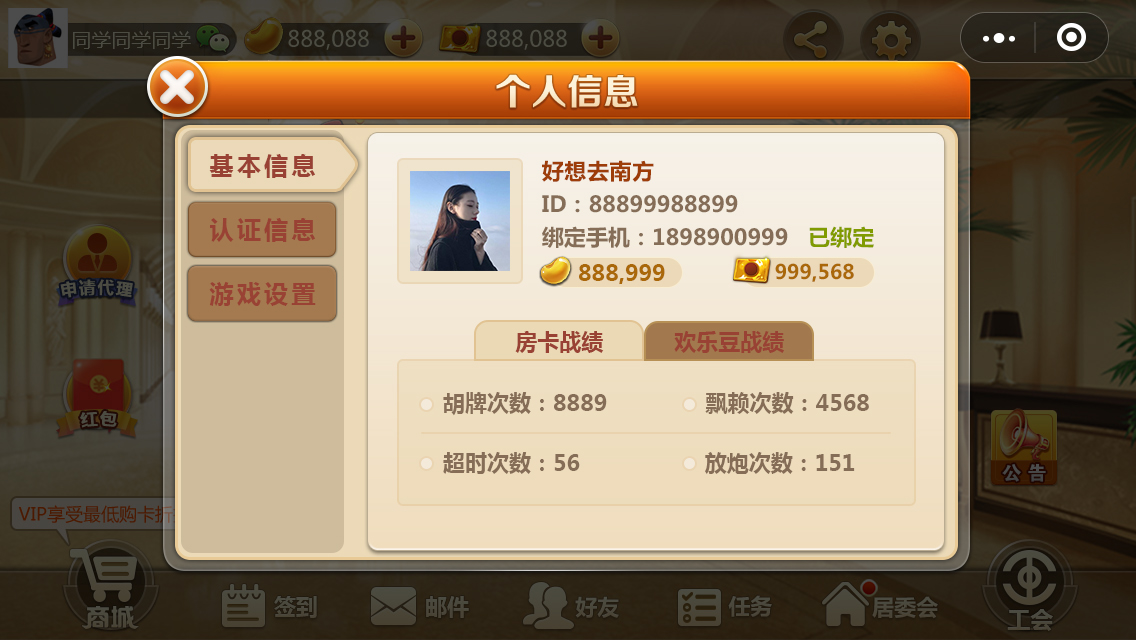
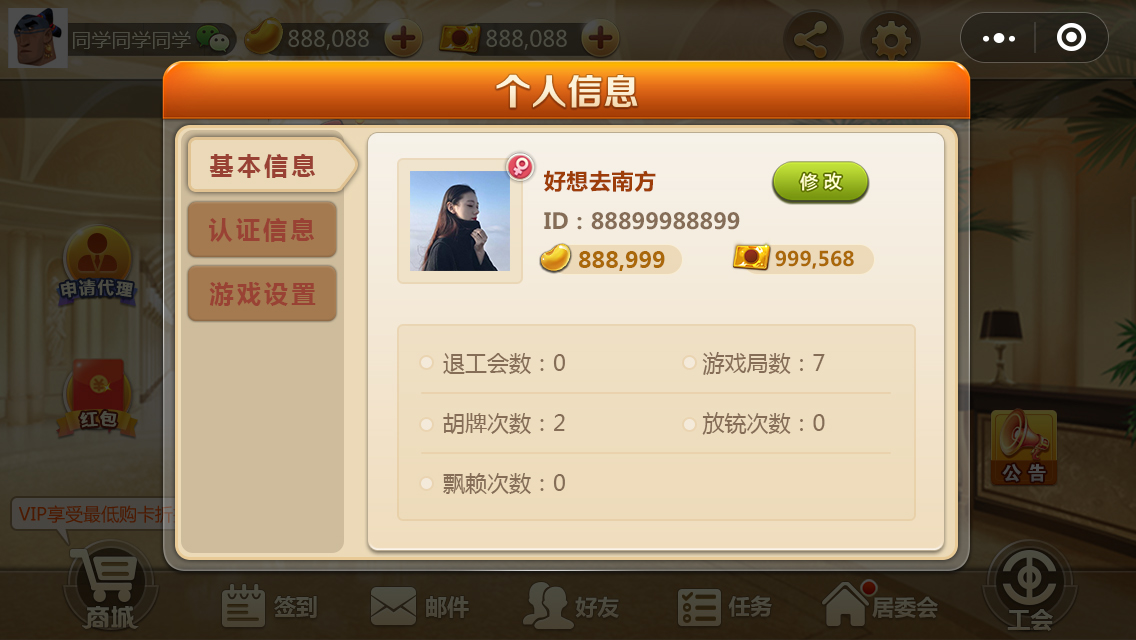
个人信息界面

diff --git a/assets/Script/modules/lobby/views/userInfo/UserInfoView.ts b/assets/Script/modules/lobby/views/userInfo/UserInfoView.ts
@@ -44,8 +44,6 @@ export class UserInfoView extends cc.Component {
     private chaoshiText: fgui.GObject;
     private fangpaoText: fgui.GObject;
     private phone: fgui.GObject;
-    private fkRecordTap: fgui.GButton;
-    private beanRecordTap: fgui.GButton;
     private userInfo: fgui.GComponent;
 
     private changeIconBtn: fgui.GButton;
@@ -190,12 +188,6 @@ export class UserInfoView extends cc.Component {
 
         this.saveModifyBtn = userInfo.getChild("saveModifyBtn").asButton;
         this.saveModifyBtn.onClick(this.onSaveModifyBtnClick, this);
-
-        this.fkRecordTap = userInfo.getChild("fkRecordTap").asButton;
-        this.fkRecordTap.onClick(this.onFkRecordTapClick, this);
-
-        this.beanRecordTap = userInfo.getChild("beanRecordTap").asButton;
-        this.beanRecordTap.onClick(this.onBeanRecordTapClick, this);
 
         this.bindPhoneBtn = userInfo.getChild("bindPhoneBtn").asButton;
         this.bindPhoneBtn.onClick(this.onBindPhoneBtnClick, this);
@@ -359,14 +351,6 @@ export class UserInfoView extends cc.Component {
         this.changeIconBtn.visible = false;
         // this.userName.asTextInput.editable = false;
         this.userName.enabled = false;
-    }
-
-    private onFkRecordTapClick(): void {
-        Logger.debug("onFkRecordTapClick");
-    }
-
-    private onBeanRecordTapClick(): void {
-        Logger.debug("onBeanRecordTapClick");
     }
 
     private onBindPhoneBtnClick(): void {

diff --git a/assets/Script/modules/lobby/views/reward/RewardView.ts b/assets/Script/modules/lobby/views/reward/RewardView.ts
@@ -1,4 +1,4 @@
-import { CommonFunction, LobbyModuleInterface, SoundMgr, Logger } from "../../lcore/LCoreExports";
+import { CommonFunction, LobbyModuleInterface, SoundMgr } from "../../lcore/LCoreExports";
 import { proto } from "../../protoHH/protoHH";
 const { ccclass } = cc._decorator;
 
